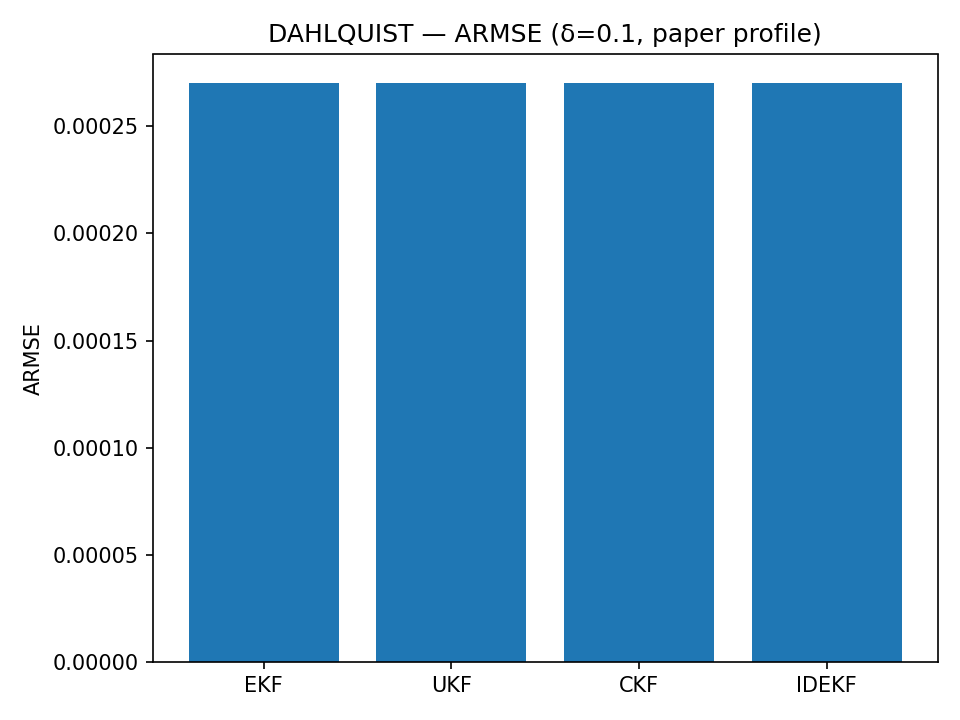
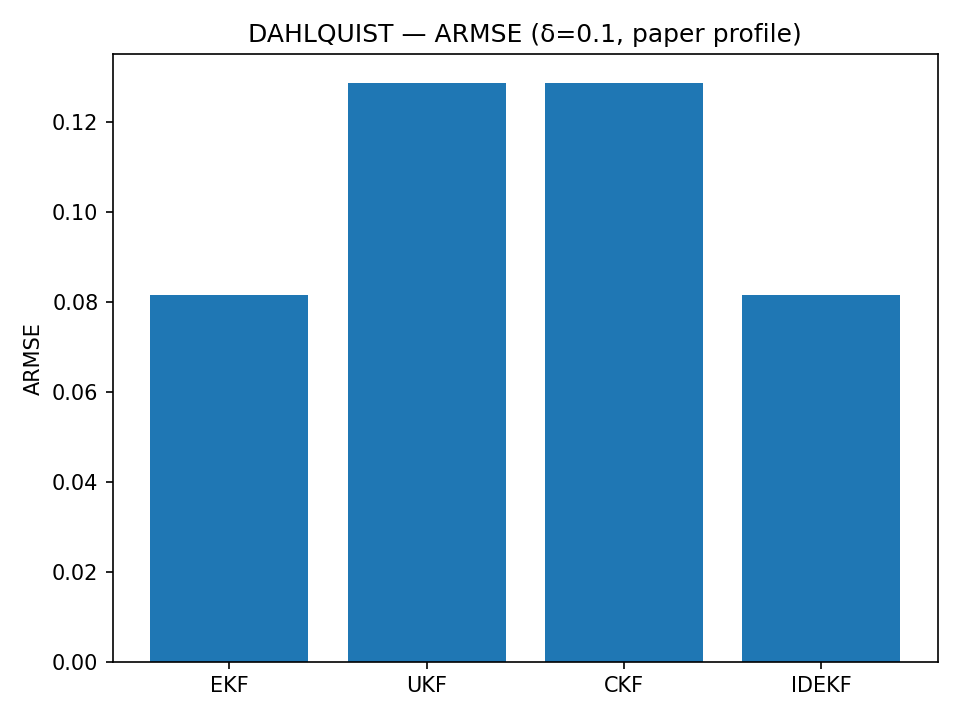
edits

diff --git a/run_armse.py b/run_armse.py
@@ -54,7 +54,7 @@ def run_cd(case: str, deltas: List[float], N_runs: int, seed: int, outdir: str,
     for delta in deltas:
         if case == "dahlquist":
             # Nonlinear Dahlquist; choose stable negative mu and j=3
-            mu, j = -1.0e4, 1
+            mu, j = -1.0e4, 3
             f, J = dahlquist_f(mu, j), dahlquist_J(mu, j)
             G, Qc = dahlquist_G(), dahlquist_Qc()  # used only in filter covariance MDE
             x0 = np.array([1.0], dtype=float)
@@ -64,7 +64,7 @@ def run_cd(case: str, deltas: List[float], N_runs: int, seed: int, outdir: str,
 
         elif case == "vdp":
             # Stiff Van der Pol: paper settings
-            mu = 1.0e4
+            mu = 1.0e5
             f, J = vdp_f(mu), vdp_J(mu)
             G, Qc = vdp_G(), vdp_Qc()             # process model in filters (not in truth)
             x0 = np.array([2.0, 0.0], dtype=float)
@@ -199,14 +199,15 @@ def export_armse_summary(results, outdir, case):
     plt.close()
     print(f"Wrote {png_path}")
 
-if __name__ == "__main__":
+if __name__ == "__main__": 
     parser = argparse.ArgumentParser()
     parser.add_argument("--case", choices=["dahlquist", "vdp"], default="vdp")
-    parser.add_argument("--runs", type=int, default=3)          
+    parser.add_argument("--runs", type=int, default=1)          
     parser.add_argument("--seed", type=int, default=1)
     parser.add_argument("--outdir", type=str, default="results")
-    deltas = [1.0]
-    parser.add_argument("--deltas", type=float, nargs="*", default=deltas)
+    slow = [0.1, 0.2, 0.3, 0.4, 0.5, 0.6, 0.7, 0.8, 0.9, 1.0]
+    fast = [1.0]
+    parser.add_argument("--deltas", type=float, nargs="*", default=fast)
     parser.add_argument("--profile", choices=["paper"], default="paper")
     args = parser.parse_args()
 
